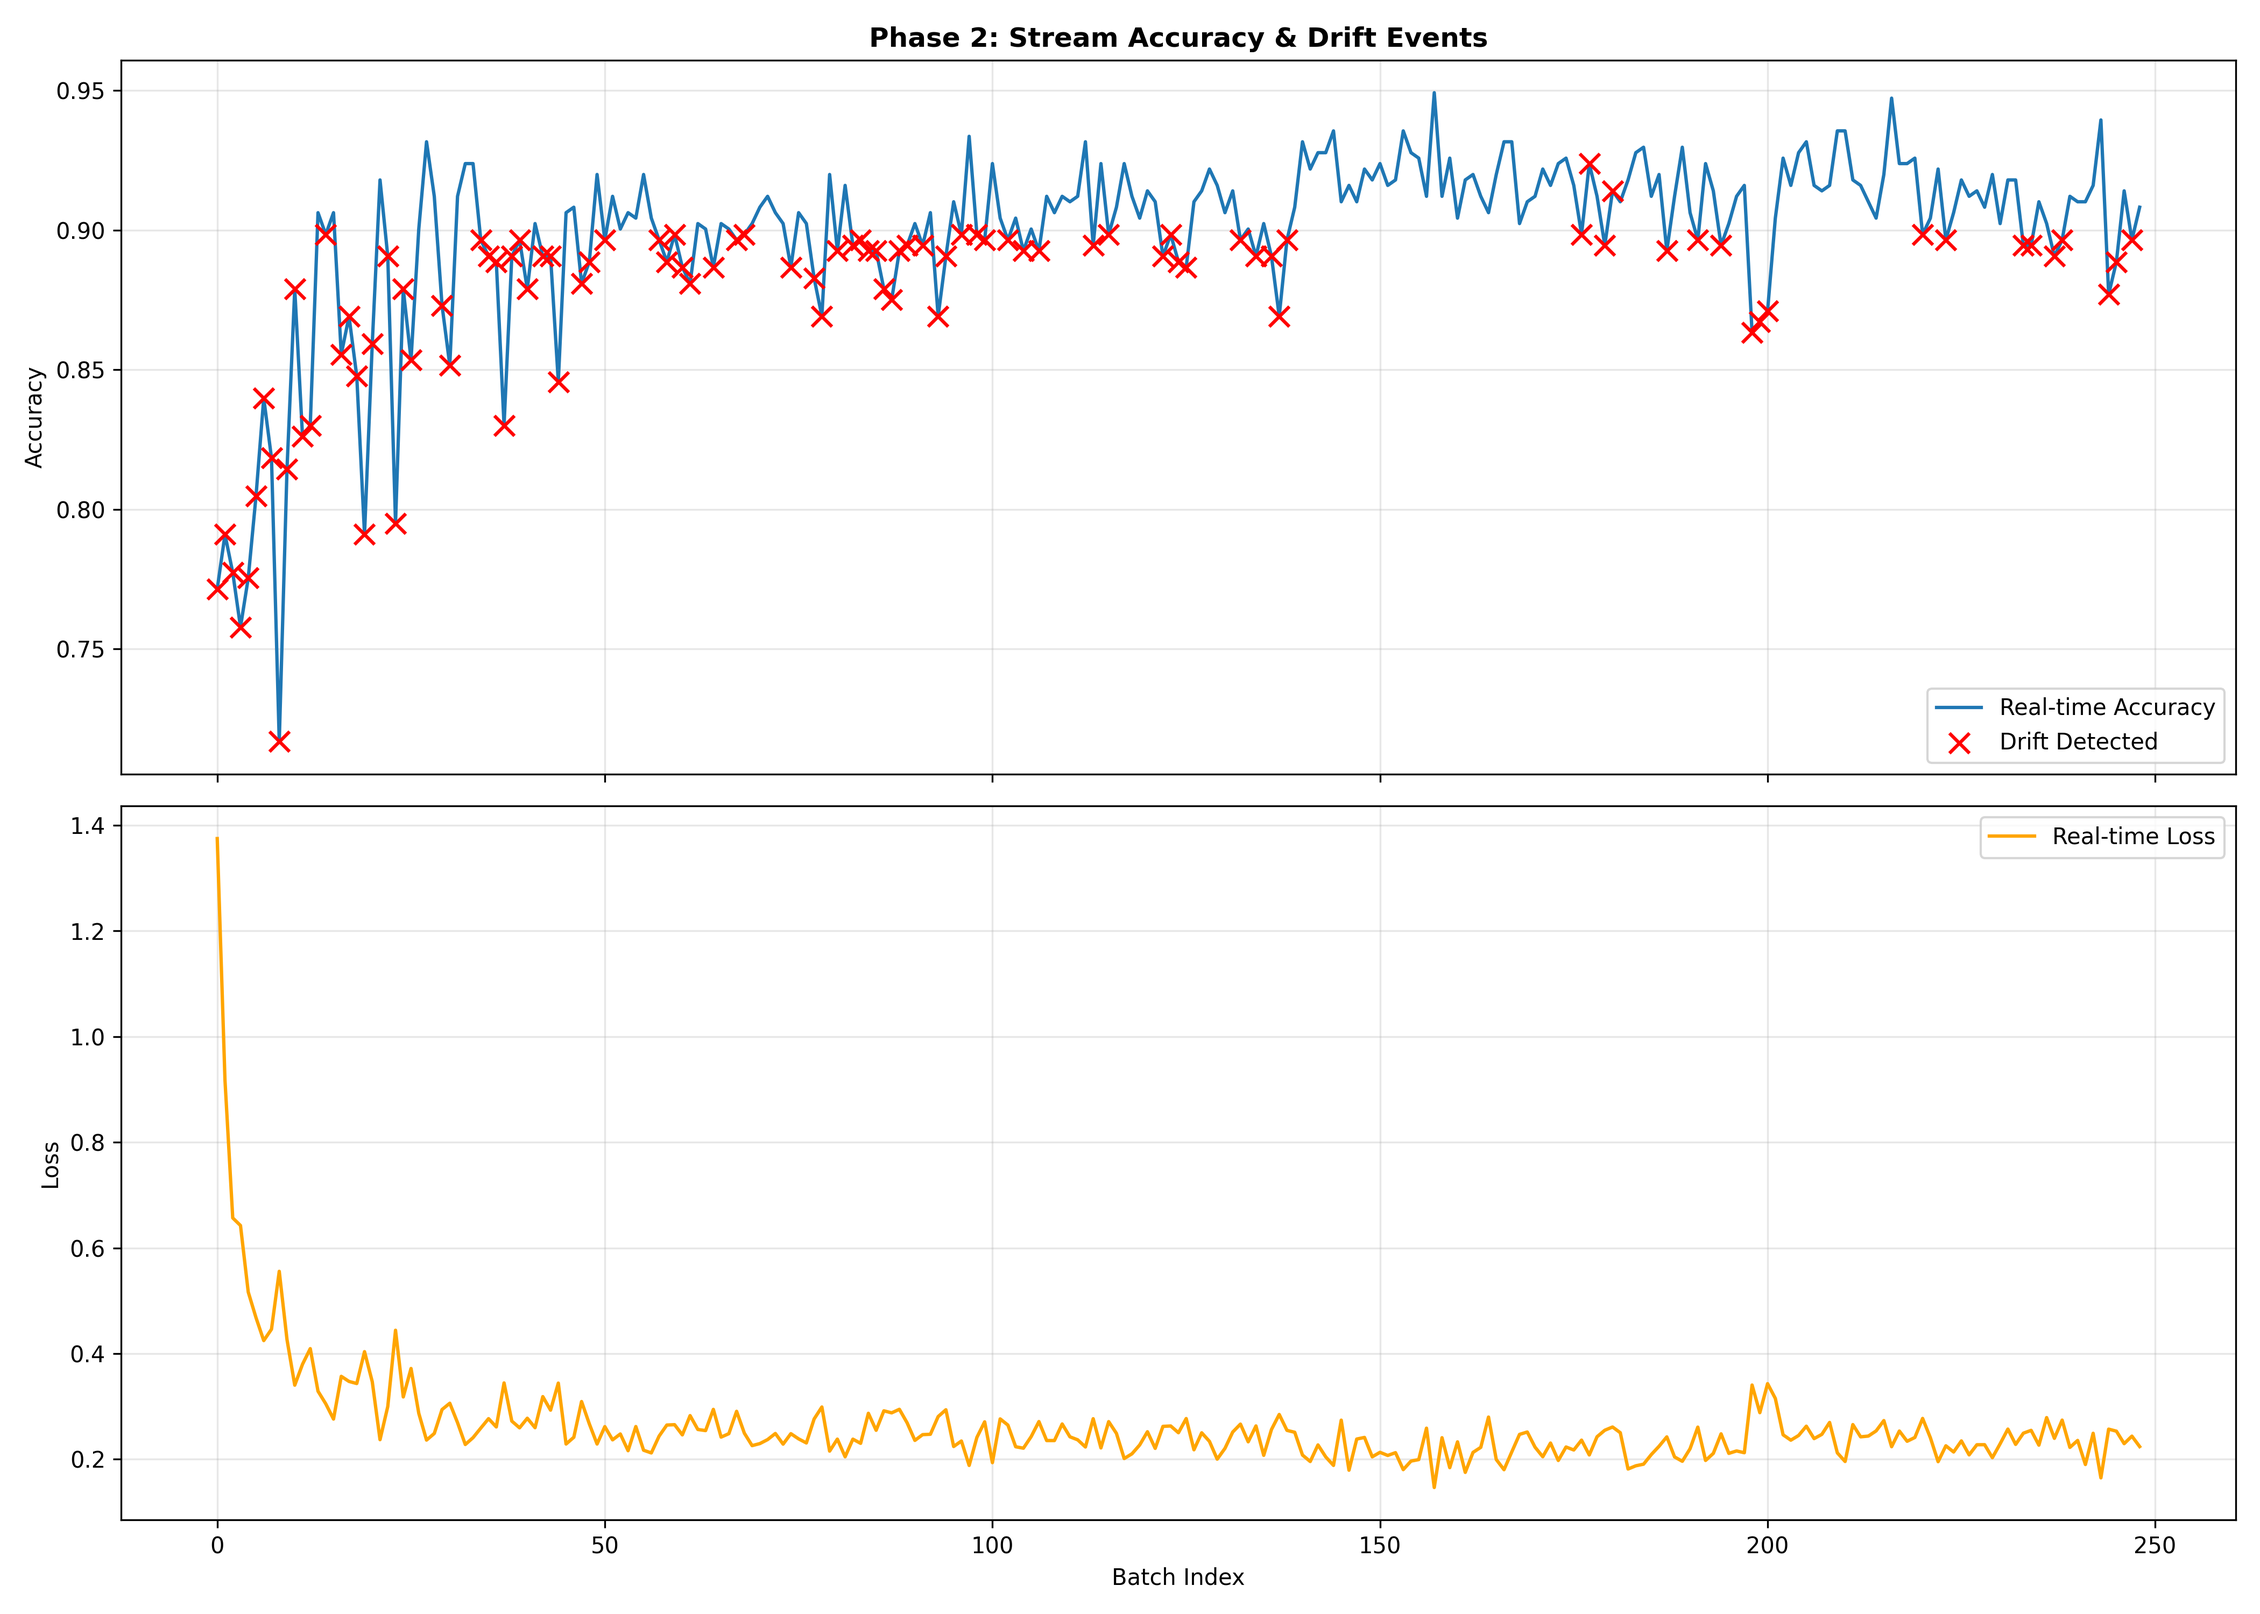
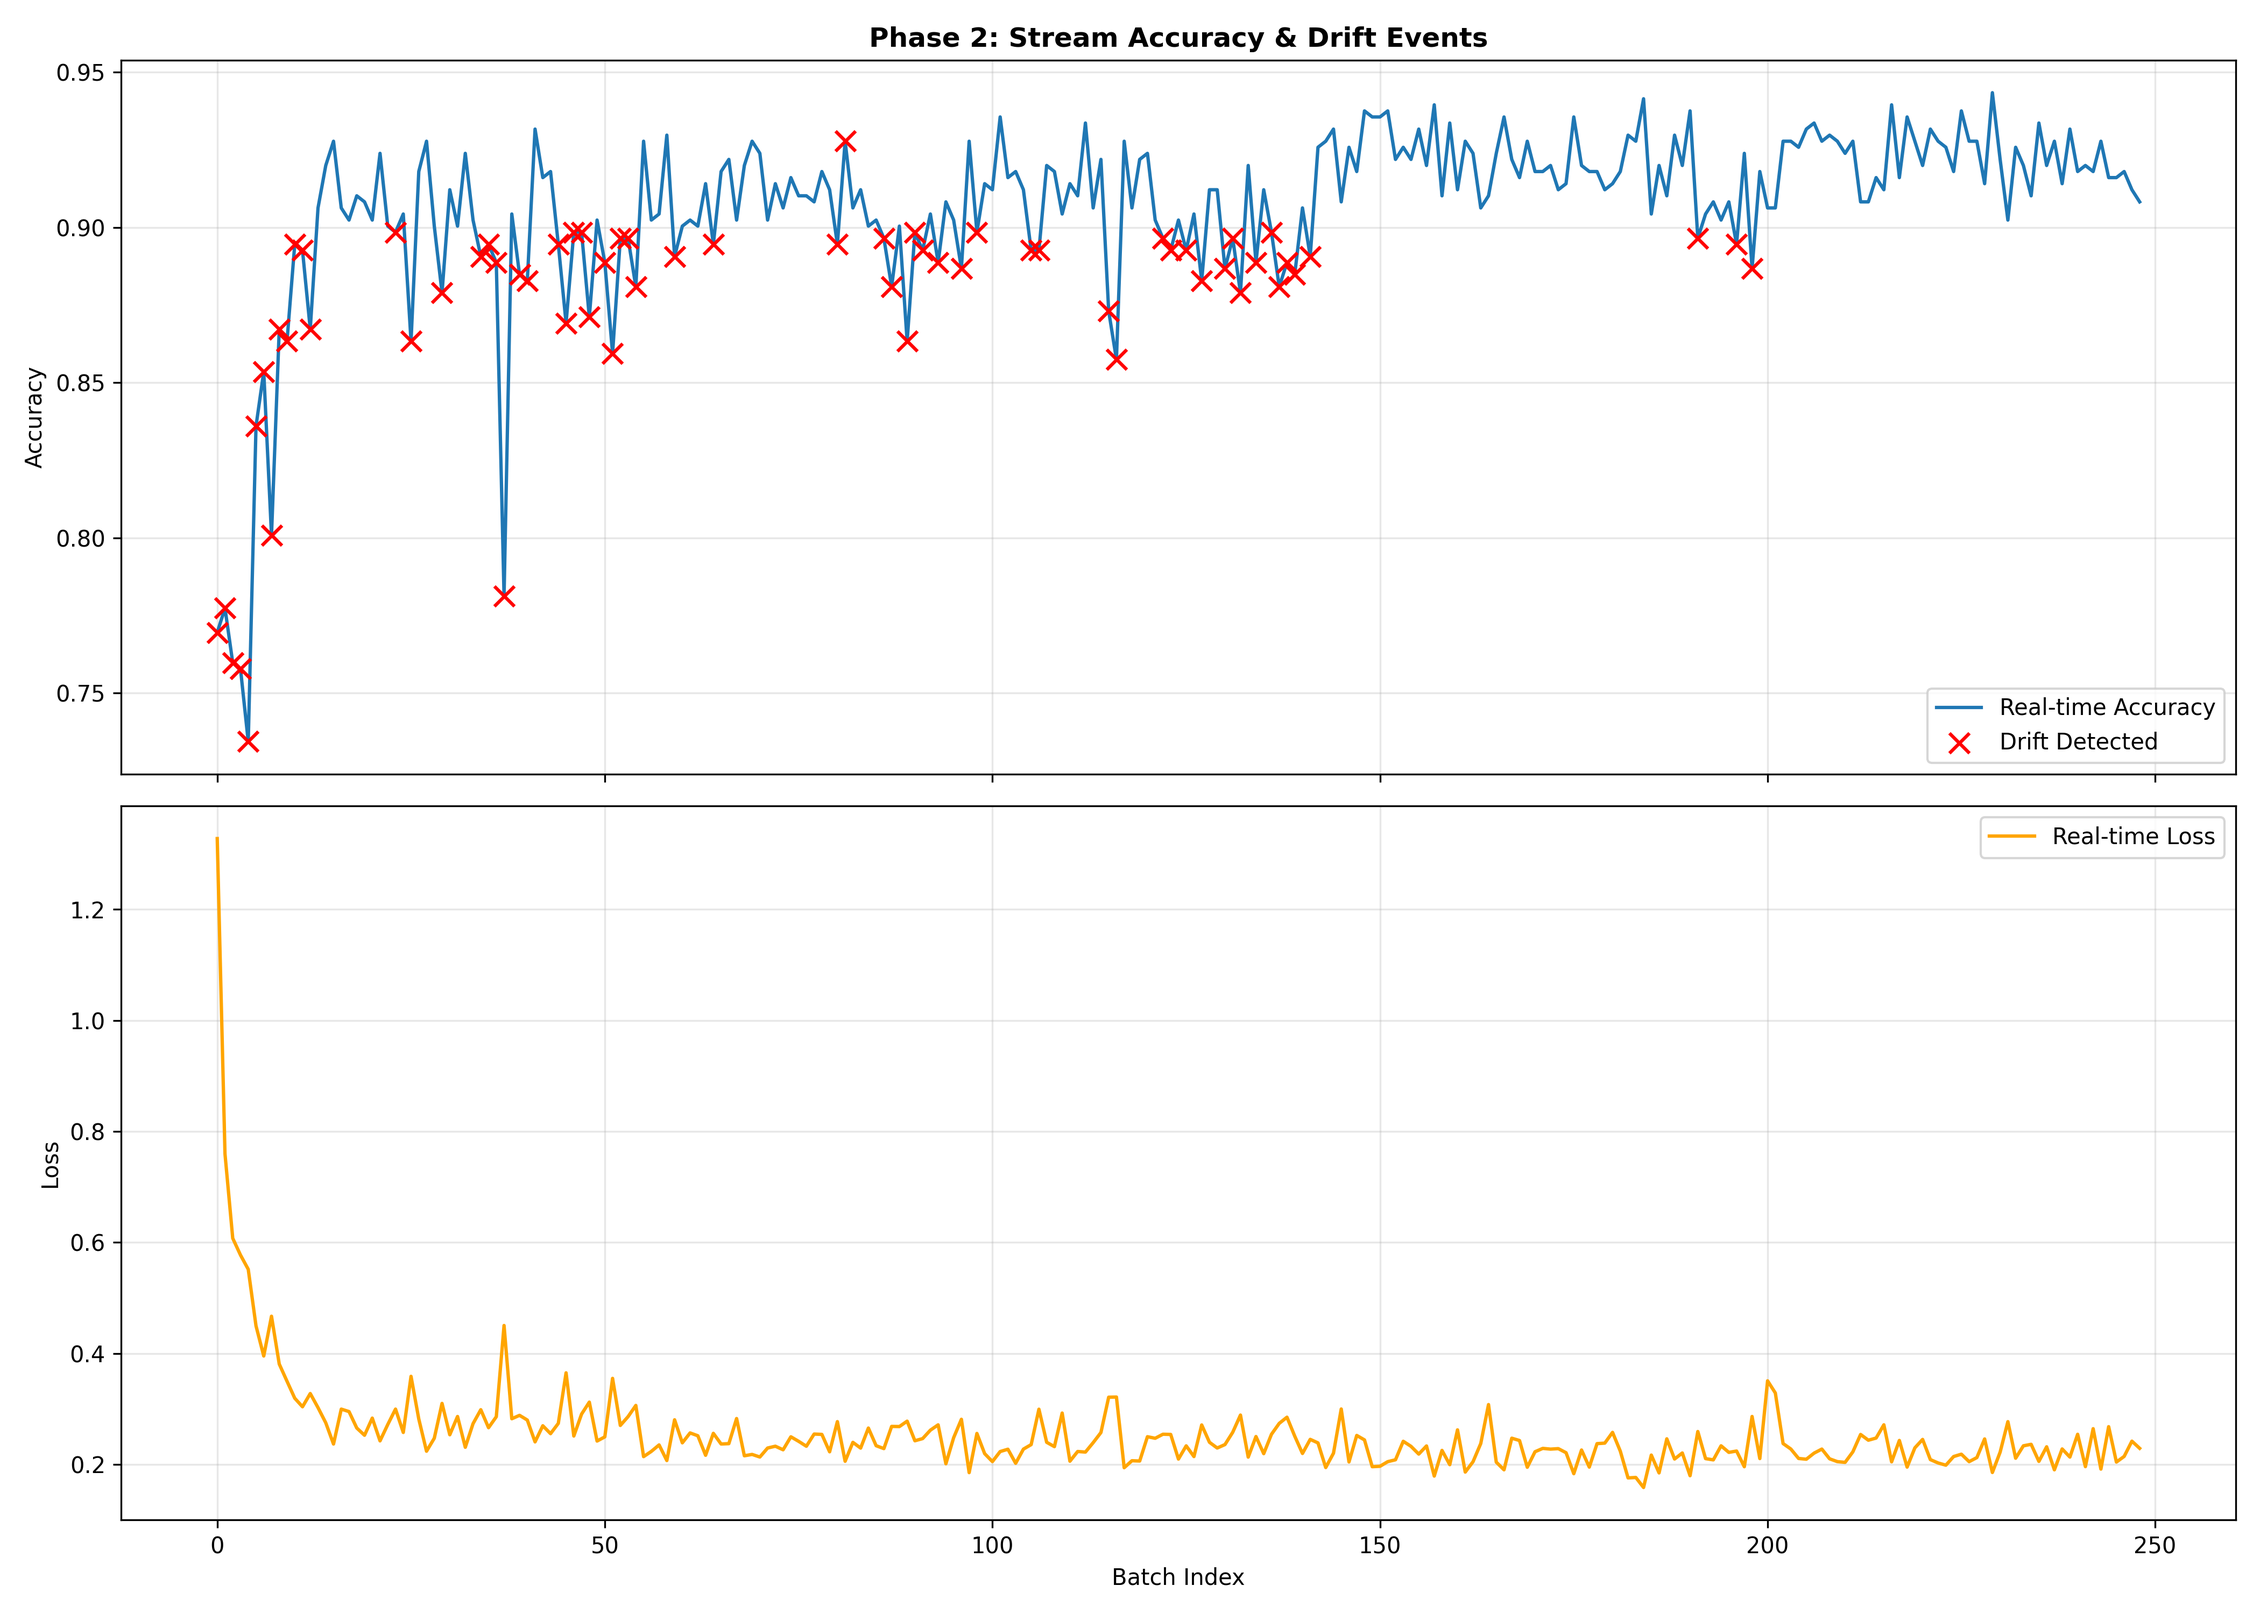
change for review

diff --git a/src/model/CD_AHAL/CD_AHAL_periodic_baseline.py b/src/model/CD_AHAL/CD_AHAL_periodic_baseline.py
@@ -1,0 +1,209 @@
+import os
+import time
+import datetime
+import random
+import numpy as np
+import pandas as pd
+import matplotlib.pyplot as plt
+import seaborn as sns
+import tensorflow as tf
+from tensorflow import keras
+from tensorflow.keras import layers, backend as K
+from sklearn.metrics import accuracy_score, f1_score, precision_score, recall_score, confusion_matrix
+from sklearn.utils import class_weight
+from collections import deque
+from tabulate import tabulate
+
+# ==========================================
+# 1. CẤU HÌNH CHO BASELINE "PERIODIC + RANDOM"
+# ==========================================
+# Mục tiêu: So sánh CD-AHAL với chiến lược Retrain định kỳ dùng Random Sampling (Không dùng Active Learning)
+DATA_PATH = "../../../dataset/processed_v3_unified"
+BASE_OUTPUT = "../../../baocao/PERIODIC_BASELINE_REVIEW3" # Folder riêng cho Baseline này
+MODEL_PATH = os.path.join(BASE_OUTPUT, "models")
+REPORT_PATH = os.path.join(BASE_OUTPUT, "reports_stream")
+PLOT_PATH = os.path.join(BASE_OUTPUT, "plots_stream")
+SOURCE_MODEL_PATH = "../../../baocao/CD_AHAL_FINAL_FULL_METRICS_FINAL/models" # Lấy model gốc để bắt đầu
+
+for p in [REPORT_PATH, PLOT_PATH]: 
+    if not os.path.exists(p): os.makedirs(p)
+
+ONLINE_STREAM_FILE = os.path.join(DATA_PATH, "processed_online_stream.parquet")
+
+TIME_STEPS = 10
+BATCH_SIZE = 512
+RAW_BATCH_SIZE = BATCH_SIZE * TIME_STEPS
+REHEARSAL_SIZE = 5000
+CLASS_NAMES = ['Normal', 'DoS', 'PortScan', 'Botnet', 'BruteForce', 'WebAttack', 'Infiltration', 'DDoS']
+
+# --- CONFIG RIÊNG CHO PERIODIC BASELINE ---
+RETRAIN_INTERVAL = 20  # Cứ mỗi 20 batch sẽ retrain 1 lần (Bất kể có drift hay không)
+BUDGET_RATIO = 0.20    # Giống CD-AHAL (20% budget) nhưng lấy Random thay vì Oracle Entropy
+
+# --- CUSTOM LAYERS (Bắt buộc để load model) ---
+@tf.keras.utils.register_keras_serializable()
+class AttentionLayer(layers.Layer):
+    def __init__(self, **kwargs): super().__init__(**kwargs)
+    def build(self, input_shape):
+        self.W = self.add_weight(name='w', shape=(input_shape[-1], 1), initializer='normal')
+        self.b = self.add_weight(name='b', shape=(input_shape[1], 1), initializer='zeros')
+        super().build(input_shape)
+    def call(self, x):
+        e = K.tanh(K.dot(x, self.W) + self.b); a = K.softmax(e, axis=1)
+        return K.sum(x * a, axis=1)
+
+@tf.keras.utils.register_keras_serializable()
+class MCDropout(layers.Dropout):
+    def call(self, inputs, training=None): return super().call(inputs, training=True)
+
+@tf.keras.utils.register_keras_serializable()
+class F1Score(tf.keras.metrics.Metric):
+    def __init__(self, name='f1_score', **kwargs):
+        super(F1Score, self).__init__(name=name, **kwargs)
+        self.precision = tf.keras.metrics.Precision(); self.recall = tf.keras.metrics.Recall()
+    def update_state(self, y_true, y_pred, sample_weight=None):
+        self.precision.update_state(y_true, y_pred, sample_weight)
+        self.recall.update_state(y_true, y_pred, sample_weight)
+    def result(self):
+        p = self.precision.result(); r = self.recall.result()
+        return 2 * ((p * r) / (p + r + tf.keras.backend.epsilon()))
+    def reset_state(self): self.precision.reset_state(); self.recall.reset_state()
+
+@tf.keras.utils.register_keras_serializable()
+class SparseFocalLoss(tf.keras.losses.Loss):
+    def __init__(self, gamma=2.0, alpha=0.25, **kwargs):
+        super().__init__(**kwargs); self.gamma = gamma; self.alpha = alpha
+        self.ce = tf.keras.losses.SparseCategoricalCrossentropy(from_logits=False)
+    def call(self, y_true, y_pred):
+        ce = self.ce(y_true, y_pred); pt = tf.exp(-ce)
+        return self.alpha * ((1 - pt) ** self.gamma) * ce
+    def get_config(self): return {"gamma": self.gamma, "alpha": self.alpha}
+
+# ==========================================
+# HELPER
+# ==========================================
+class SmartBuffer:
+    def __init__(self, max_size):
+        self.max_size = max_size; self.buffer = [] 
+    def add(self, x, y):
+        for i in range(len(x)): self.buffer.append((x[i], y[i]))
+        if len(self.buffer) > self.max_size:
+            self.buffer = random.sample(self.buffer, self.max_size)
+    def get_sample(self, n):
+        if not self.buffer: return None, None
+        s = random.sample(self.buffer, min(len(self.buffer), n))
+        return np.array([x[0] for x in s]), np.array([x[1] for x in s])
+
+def prepare_sequences(X, y, time_steps):
+    if len(X) < time_steps: return np.array([]), np.array([])
+    n = len(X) // time_steps
+    X_seq = X[:n*time_steps].reshape((n, time_steps, X.shape[1]))
+    y_seq = y[time_steps-1::time_steps]
+    return X_seq, y_seq
+
+def calc_all_metrics(y_true, y_pred, avg='weighted'):
+    return {
+        'Accuracy': accuracy_score(y_true, y_pred),
+        'Precision': precision_score(y_true, y_pred, average=avg, zero_division=0),
+        'Recall': recall_score(y_true, y_pred, average=avg, zero_division=0),
+        'F1-Score': f1_score(y_true, y_pred, average=avg, zero_division=0)
+    }
+
+def plot_visuals(batches, accs, retrain_indices, name):
+    plt.figure(figsize=(14, 6))
+    plt.plot(batches, accs, label='Periodic Accuracy', color='purple')
+    if retrain_indices:
+        vals = [accs[b] for b in retrain_indices]
+        plt.scatter(retrain_indices, vals, color='black', zorder=5, label='Periodic Retrain', marker='D', s=40)
+    plt.ylabel("Accuracy"); plt.legend(); plt.grid(True, alpha=0.3)
+    plt.title(f"Baseline: Periodic Retraining (Every {RETRAIN_INTERVAL} batches) with Random Sampling")
+    plt.savefig(os.path.join(PLOT_PATH, f"{name}.png"), dpi=300); plt.close()
+
+# ==========================================
+# MAIN PERIODIC BASELINE
+# ==========================================
+def main():
+    print(f"--- BASELINE: PERIODIC RETRAINING (Every {RETRAIN_INTERVAL} Batches) ---")
+    custom = {'AttentionLayer': AttentionLayer, 'MCDropout': MCDropout, 'F1Score': F1Score, 'SparseFocalLoss': SparseFocalLoss}
+    
+    # Load model gốc (chưa train phase 2) để công bằng
+    try:
+        model_A = keras.models.load_model(os.path.join(SOURCE_MODEL_PATH, "CD_AHAL_model_A_initial.h5"), custom_objects=custom)
+        
+        # [FIX] Re-compile để khởi tạo lại training loop cho môi trường hiện tại
+        model_A.compile(optimizer='adam', loss='binary_crossentropy', metrics=['accuracy'])
+        
+        print("✅ Initial Models loaded successfully!")
+    except:
+        print(f"❌ Error loading models from {SOURCE_MODEL_PATH}. Check path!"); return
+
+    df_stream = pd.read_parquet(ONLINE_STREAM_FILE)
+    feat_cols = [c for c in df_stream.columns if c not in ['Label', 'Label_Multi', 'Label_Bin']]
+    X_raw = df_stream[feat_cols].values; yb_raw = df_stream['Label'].values
+    
+    buffer = SmartBuffer(REHEARSAL_SIZE)
+    log = {'batch': [], 'acc': [], 'retrain': []}
+    
+    n_batches = len(X_raw) // RAW_BATCH_SIZE
+    all_true, all_pred = [], []
+    
+    print(f"-> Streaming {n_batches} batches with Periodic Retraining...")
+    
+    for i in range(n_batches):
+        s = i * RAW_BATCH_SIZE; e = (i+1) * RAW_BATCH_SIZE
+        X_seq, y_cur = prepare_sequences(X_raw[s:e], yb_raw[s:e], TIME_STEPS)
+        if len(X_seq) == 0: continue
+        
+        # 1. Inference (Dùng model hiện tại)
+        preds = (model_A.predict(X_seq, verbose=0) > 0.5).astype(int).flatten()
+        acc = accuracy_score(y_cur, preds)
+        
+        all_true.extend(y_cur); all_pred.extend(preds)
+        log['batch'].append(i); log['acc'].append(acc)
+        
+        # 2. Periodic Retraining Check
+        # Reviewer 3: "So sánh với chiến lược cập nhật định kỳ"
+        if (i + 1) % RETRAIN_INTERVAL == 0:
+            log['retrain'].append(i)
+            print(f"🔄 Periodic Retrain @ Batch {i} | Acc: {acc:.3f}")
+            
+            # A. Random Sampling (Thay vì Oracle Entropy)
+            # Reviewer 3 muốn thấy hiệu quả của việc "chọn mẫu thông minh" (Active Learning)
+            # nên baseline này phải chọn "ngẫu nhiên" để so sánh.
+            budget_size = int(len(X_seq) * BUDGET_RATIO)
+            
+            # Chọn ngẫu nhiên index
+            idx_random = np.random.choice(len(X_seq), budget_size, replace=False)
+            X_train_new = X_seq[idx_random]
+            y_train_new = y_cur[idx_random] # Giả định gán nhãn đúng cho mẫu ngẫu nhiên
+            
+            # B. Rehearsal Buffer
+            X_buf, y_buf = buffer.get_sample(BATCH_SIZE)
+            if X_buf is not None:
+                X_train_new = np.concatenate([X_train_new, X_buf], axis=0)
+                y_train_new = np.concatenate([y_train_new, y_buf], axis=0)
+            
+            # C. Update Model
+            if len(X_train_new) > 0:
+                cw = class_weight.compute_class_weight('balanced', classes=np.unique(y_train_new), y=y_train_new)
+                cw_d = dict(enumerate(cw))
+                model_A.fit(X_train_new, y_train_new, epochs=3, batch_size=64, verbose=0, class_weight=cw_d)
+            
+            # Add to buffer
+            buffer.add(X_seq[idx_random], y_cur[idx_random])
+        
+        if i % 20 == 0: print(f"Batch {i}/{n_batches} | Acc: {acc:.3f}")
+
+    # Summary
+    print("\n--- PERIODIC BASELINE SUMMARY ---")
+    plot_visuals(log['batch'], log['acc'], log['retrain'], "Periodic_Retrain_Performance")
+    
+    m_bin = calc_all_metrics(all_true, all_pred)
+    df_res = pd.DataFrame([m_bin], index=['Periodic Baseline'])
+    print(tabulate(df_res, headers='keys', tablefmt='grid'))
+    
+    df_res.to_csv(os.path.join(REPORT_PATH, "Periodic_Baseline_Metrics.csv"))
+    print(f"✅ Done. Results saved to {REPORT_PATH}")
+
+if __name__ == "__main__":
+    main()

diff --git a/src/model/CD_AHAL/CD_AHAL_online_drift_stream_phase2.py b/src/model/CD_AHAL/CD_AHAL_online_drift_stream_phase2.py
@@ -17,7 +17,7 @@ from tabulate import tabulate
 # ==========================================
 # 1. CẤU HÌNH & IMPORT
 # ==========================================
-DATA_PATH = "D:/DoAnChuyenNganh/dataset/processed_v3_unified"
+DATA_PATH = "../../../dataset/processed_v3_unified"
 BASE_OUTPUT = "../../../baocao/CD_AHAL_FINAL_FULL_METRICS_FINAL"
 MODEL_PATH = os.path.join(BASE_OUTPUT, "models")
 REPORT_PATH = os.path.join(BASE_OUTPUT, "reports_stream")
